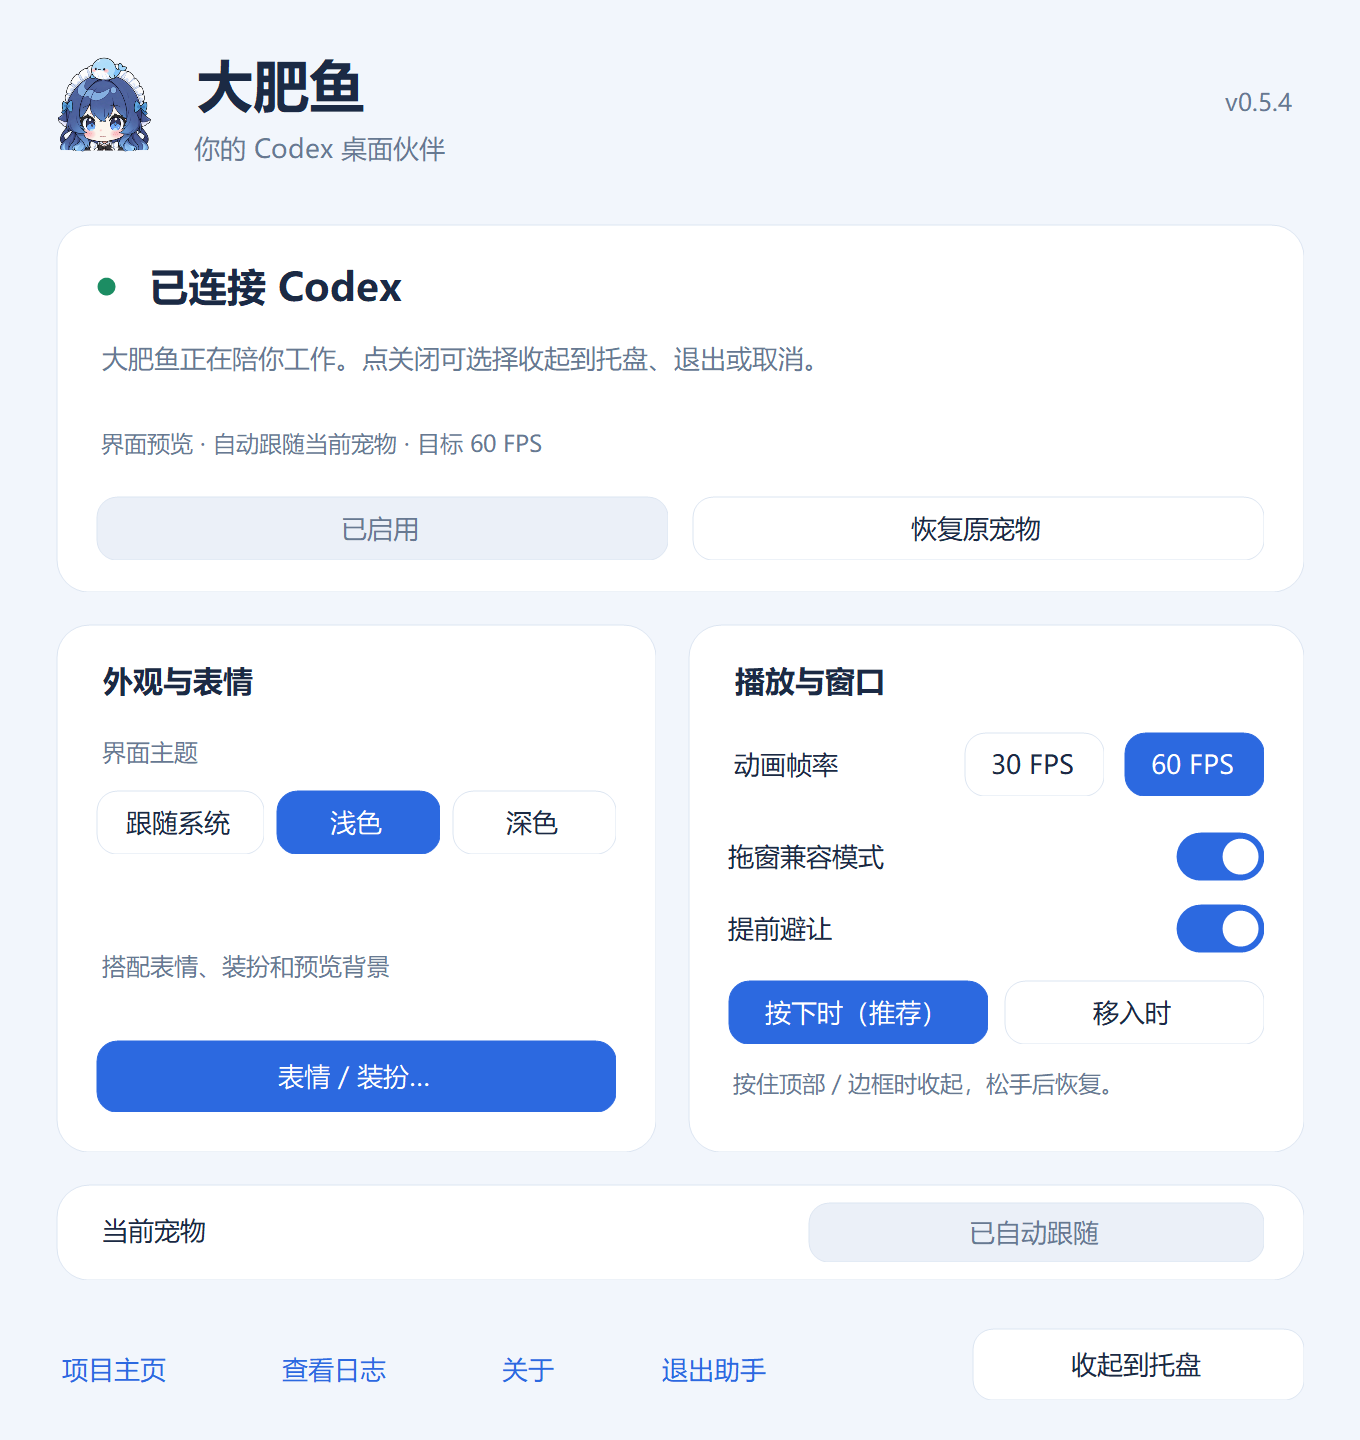
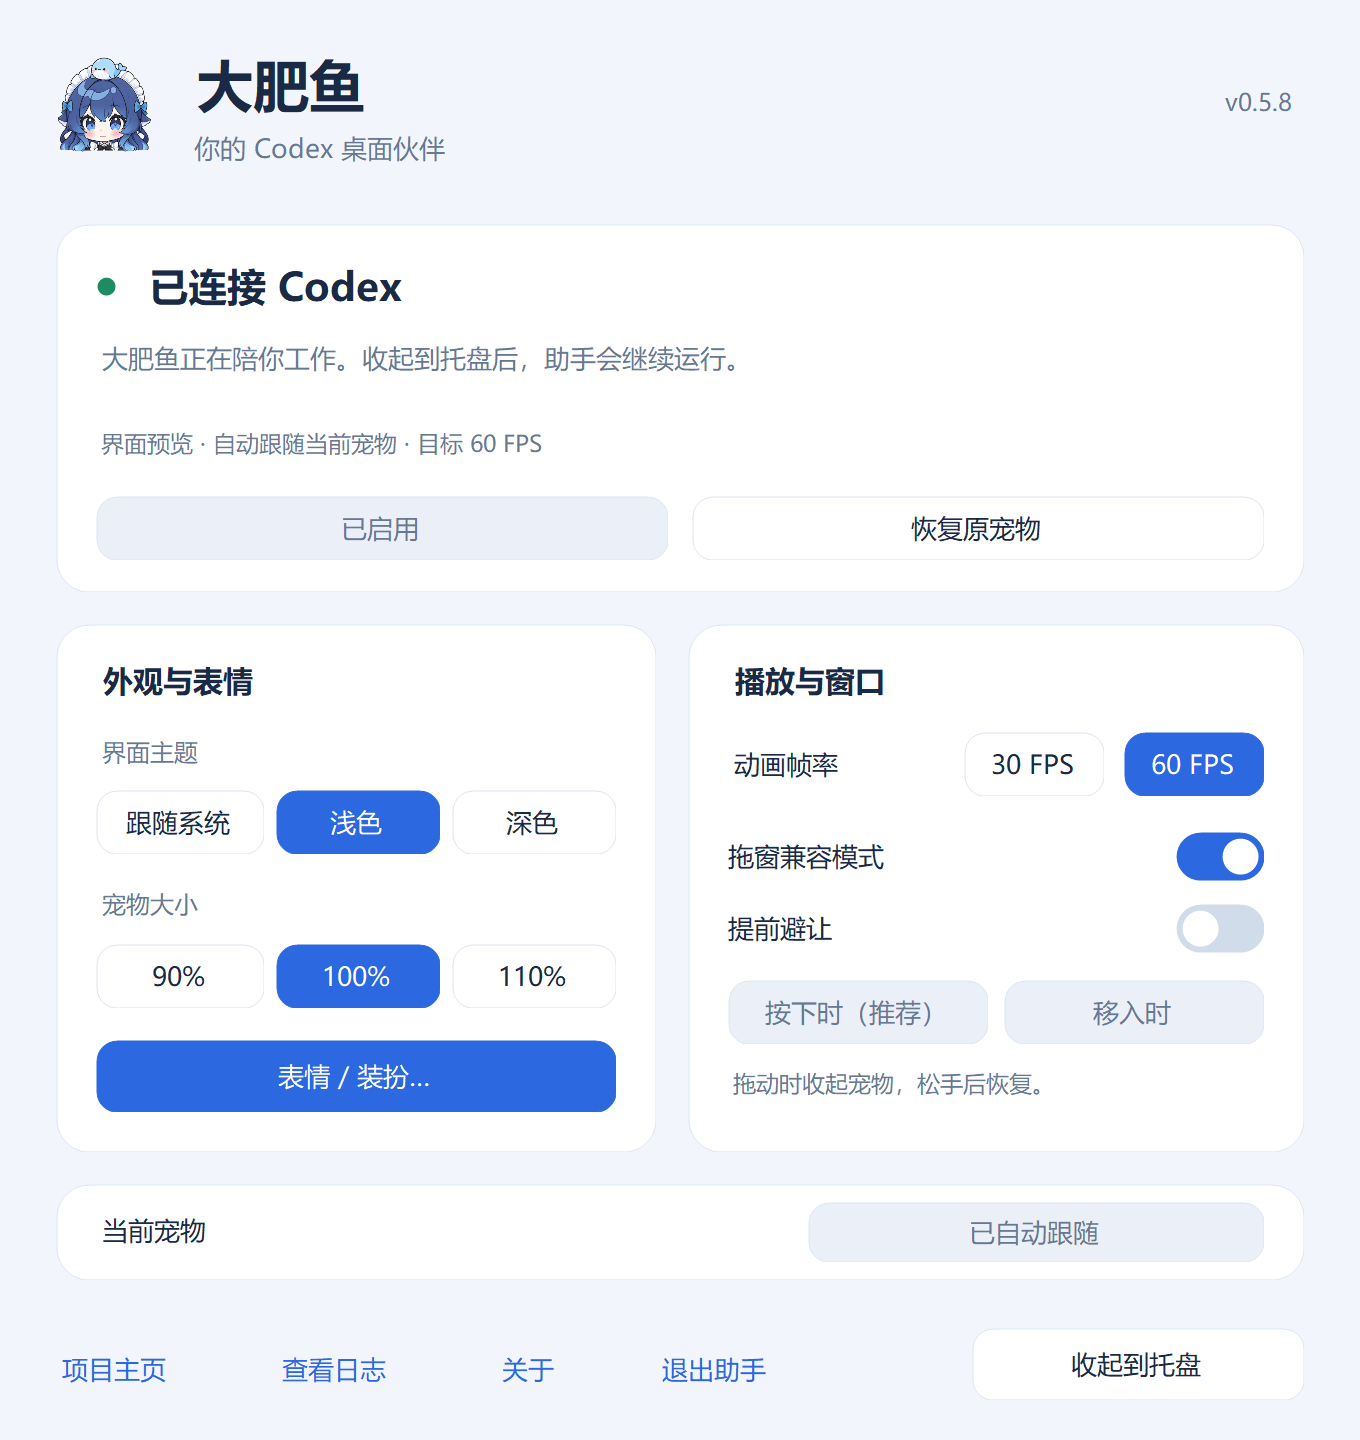
Add pet size presets and tie the excited face to selfies

diff --git a/native/Launcher.cs b/native/Launcher.cs
@@ -126,7 +126,7 @@ internal static class Program {
             if(state=="watching")dashboard.UpdateState("等待你打开 Codex","助手继续监测。点“打开 Codex”或再次运行大肥鱼入口，即可一起打开并接入。","自动监测 · 目标 60 FPS",state,false,60,true);
             if(state=="handoff-wait")dashboard.UpdateState("等待你完整退出 Codex","已安排自动接入。请从系统托盘右键 Codex → 退出，助手会随后重开。只关窗口不算退出。","等待接续 · 目标 60 FPS",state,false,60,true);
             if(state=="relaunch-needed")dashboard.UpdateState("需要重开 Codex 才能接入","这次 Codex 未开启宠物接入通道。点“安排接入”，再从托盘完整退出一次，助手会接续打开。","自动监测 · 目标 60 FPS",state,false,60,true);
-            int previewTheme=Array.IndexOf(args,"--theme");dashboard.UpdateOptions(previewTheme>=0&&previewTheme+1<args.Length?args[previewTheme+1]:Text(ReadPreferences(),"theme","system"),true,args.Contains("--early-avoidance"),"press",false);
+            int previewTheme=Array.IndexOf(args,"--theme");dashboard.UpdateOptions(previewTheme>=0&&previewTheme+1<args.Length?args[previewTheme+1]:Text(ReadPreferences(),"theme","system"),true,args.Contains("--early-avoidance"),"press",100,false);
             form=dashboard;
         }
         using(form) {
@@ -222,7 +222,7 @@ internal sealed class PetContext : ApplicationContext {
     private Icon trayIcon;
     private int trayPixels;
     private bool busy,closing,exitRequested,enabled,userPaused;
-    private int fps=60;
+    private int fps=60,petSize=100;
     private bool automatic=true;
     private bool appearanceOpen;
     private string restoreNotice="";
@@ -236,6 +236,9 @@ internal sealed class PetContext : ApplicationContext {
         MainForm=panel;ReadSettings();panel.CloseBehavior=Program.ReadCloseBehavior();
         panel.EnableRequested=StartPet;panel.RestoreRequested=RestorePet;panel.FollowRequested=delegate { Reconfigure("--pet-id auto"); };
         panel.FpsRequested=delegate(int requested) { if(requested!=fps)Reconfigure("--fps "+requested); };
+        panel.PetSizeRequested=delegate(int requested) {
+            if(requested!=petSize)Work(delegate{Program.Run("launch.mjs","set-pet-size "+requested);},ReadSettings);
+        };
         panel.HideRequested=delegate { panel.Hide(); };panel.ExitRequested=Shutdown;panel.LogsRequested=Program.OpenLogs;
         panel.CloseActionRequested=delegate(string action,bool remember) {
             if(remember&&!SetCloseBehavior(action))return;
@@ -269,7 +272,7 @@ internal sealed class PetContext : ApplicationContext {
         var previous=trayIcon;trayIcon=Program.LoadIconSize(pixels);tray.Icon=trayIcon;trayPixels=pixels;if(previous!=null)previous.Dispose();
     }
     private void ReadSettings() {
-        try { var settings=Program.ReadJson(Path.Combine(Program.Data,"settings.json"));fps=Convert.ToInt32(settings["fps"]);automatic=!settings.ContainsKey("petId")||settings["petId"]==null; } catch {}
+        try { var settings=Program.ReadJson(Path.Combine(Program.Data,"settings.json"));fps=Convert.ToInt32(settings["fps"]);automatic=!settings.ContainsKey("petId")||settings["petId"]==null;int size;petSize=Int32.TryParse(Program.Text(settings,"petSize","100"),out size)&&(size==90||size==110)?size:100; } catch {}
         var preferences=Program.ReadPreferences();theme=Program.Text(preferences,"theme","system");dragCompatibility=!Program.Text(preferences,"dragCompatibility","True").Equals("False",StringComparison.OrdinalIgnoreCase);earlyAvoidance=Program.Text(preferences,"earlyAvoidance","False").Equals("True",StringComparison.OrdinalIgnoreCase);avoidanceTrigger=Program.Text(preferences,"avoidanceTrigger","press");Program.ApplyTheme(theme);
     }
     private void SavePreference(string key,object value) {if(busy||closing)return;string encoded=Convert.ToBase64String(Encoding.UTF8.GetBytes(new JavaScriptSerializer().Serialize(new Dictionary<string,object>{{key,value}})));Work(delegate{Program.Run("preferences.mjs","set "+encoded);},delegate{ReadSettings();Render();});}
@@ -287,7 +290,7 @@ internal sealed class PetContext : ApplicationContext {
         if(panel.IsDisposed)return;
         string metadata=(String.IsNullOrEmpty(version)?"本机连接":"Codex "+version)+" · "+(automatic?"自动跟随当前宠物":"固定宠物")+" · 目标 "+fps+" FPS";
         panel.UpdateState(heading,detail,metadata,displayState,busy,fps,automatic);
-        panel.UpdateOptions(theme,dragCompatibility,earlyAvoidance,avoidanceTrigger,busy);
+        panel.UpdateOptions(theme,dragCompatibility,earlyAvoidance,avoidanceTrigger,petSize,busy);
         trayMenu.UpdateState(heading,displayState,busy,fps,automatic);
         trayMenu.UpdateCloseBehavior(panel.CloseBehavior);
         string tooltip="大肥鱼 · "+heading;tray.Text=tooltip.Length>63?tooltip.Substring(0,63):tooltip;

diff --git a/native/Dashboard.cs b/native/Dashboard.cs
@@ -177,13 +177,14 @@ internal sealed class Dashboard : AppForm {
     internal Action EnableRequested,RestoreRequested,FollowRequested,HideRequested,ExitRequested,LogsRequested,AboutRequested,AppearanceRequested;
     internal Action<string,bool> CloseActionRequested;
     internal string CloseBehavior="ask";
-    internal Action<int> FpsRequested;
+    internal Action<int> FpsRequested,PetSizeRequested;
     internal Action<string> ThemeRequested;
     internal Action<string> AvoidanceTriggerRequested;
     internal Action<bool> DragCompatibilityRequested,EarlyAvoidanceRequested;
     private readonly Label title,description,metadata,dragHint;
     private readonly StatusDot dot;
     private readonly SoftButton enable,restore,fps30,fps60,follow,appearance,themeSystem,themeLight,themeDark;
+    private readonly SoftButton[] sizes=new SoftButton[3];
     private readonly CheckBox dragCompatibility,earlyAvoidance;
     private readonly SoftButton avoidPress,avoidHover;
     private readonly PictureBox logo;
@@ -210,7 +211,14 @@ internal sealed class Dashboard : AppForm {
         themeSystem=new SoftButton("跟随系统",20,83,84,32);themeSystem.Name="ThemeSystem";themeSystem.Click+=delegate {if(ThemeRequested!=null)ThemeRequested("system");};looks.Controls.Add(themeSystem);
         themeLight=new SoftButton("浅色",110,83,82,32);themeLight.Name="ThemeLight";themeLight.Click+=delegate {if(ThemeRequested!=null)ThemeRequested("light");};looks.Controls.Add(themeLight);
         themeDark=new SoftButton("深色",198,83,82,32);themeDark.Name="ThemeDark";themeDark.Click+=delegate {if(ThemeRequested!=null)ThemeRequested("dark");};looks.Controls.Add(themeDark);
-        var dressLabel=Palette.Label(looks,"搭配表情、装扮和预览背景",20,163,260,24,9);dressLabel.ForeColor=Palette.Muted;
+        Palette.Label(looks,"宠物大小",20,132,260,24,9).ForeColor=Palette.Muted;
+        for(int i=0;i<sizes.Length;i++) {
+            int percent=90+i*10;
+            var button=new SoftButton(percent+"%",i==0?20:i==1?110:198,160,i==0?84:82,32);button.Name="PetSize"+percent;
+            button.AccessibleName="宠物大小 "+percent+"%";
+            button.Click+=delegate {if(!button.Primary&&PetSizeRequested!=null)PetSizeRequested(percent);};
+            looks.Controls.Add(button);sizes[i]=button;
+        }
         appearance=new SoftButton("表情 / 装扮…",20,208,260,36,true);appearance.Name="OpenAppearance";appearance.Click+=delegate {if(AppearanceRequested!=null)AppearanceRequested();};looks.Controls.Add(appearance);
         var settings=new CardPanel {Bounds=new Rectangle(344,312,308,264)};Controls.Add(settings);
         Palette.Label(settings,"播放与窗口",20,18,268,28,11,true);Palette.Label(settings,"动画帧率",20,61,108,24,9.5f);
@@ -249,11 +257,15 @@ internal sealed class Dashboard : AppForm {
         FinishLayout();
     }
 
-    internal void UpdateOptions(string theme,bool compatibility,bool early,string trigger,bool busy) {
+    internal void UpdateOptions(string theme,bool compatibility,bool early,string trigger,int petSize,bool busy) {
         updatingPreferences=true;
         try {
             themeSystem.Primary=theme=="system";themeLight.Primary=theme=="light";themeDark.Primary=theme=="dark";
             themeSystem.Enabled=themeLight.Enabled=themeDark.Enabled=!busy;
+            for(int i=0;i<sizes.Length;i++){
+                var button=sizes[i];button.Primary=petSize==90+i*10;button.Enabled=!busy;
+                button.AccessibleDescription=button.Primary?"已选择":"未选择";
+            }
             dragCompatibility.Checked=compatibility;dragCompatibility.Enabled=!busy;
             earlyAvoidance.Checked=early;earlyAvoidance.Enabled=compatibility&&!busy;
             avoidPress.Primary=trigger!="hover";avoidHover.Primary=trigger=="hover";

diff --git a/native/AppearanceDialog.cs b/native/AppearanceDialog.cs
@@ -33,7 +33,7 @@ internal sealed class AppearanceDialog : AppForm {
         automatic=new CheckBox { Text="自动播放轻松的小表情（跟随状态时生效）",Bounds=new Rectangle(26,162,550,30),Font=Palette.Font(10),BackColor=Palette.Background,Name="AutoExpressions" };Controls.Add(automatic);
         expression.SelectedIndexChanged+=delegate { automatic.Enabled=!working&&((Choice)expression.SelectedItem).Id=="auto"; };
         Palette.Label(this,"轮换范围",24,201,190,25,10,true);
-        scope=CreateChoices(new[]{new Dictionary<string,object>{{"id","all"},{"label","全部 20 种"}},new Dictionary<string,object>{{"id","daily"},{"label","日常 12 种"}}},"ExpressionScope",238,196,338);
+        scope=CreateChoices(new[]{new Dictionary<string,object>{{"id","all"},{"label","全部可轮换表情"}},new Dictionary<string,object>{{"id","daily"},{"label","轻松日常"}}},"ExpressionScope",238,196,338);
         int index=0;
         foreach(Dictionary<string,object> group in (IEnumerable)catalog["groups"]) {
             int x=index%2==0?24:312,y=254+index/2*68;string id=Program.Text(group,"id");

diff --git a/native/AssemblyInfo.cs b/native/AssemblyInfo.cs
@@ -5,8 +5,8 @@ using System.Runtime.InteropServices;
 [assembly: AssemblyCompany("Chris-Geeky")]
 [assembly: AssemblyProduct("大肥鱼 · Codex 宠物助手")]
 [assembly: AssemblyCopyright("Copyright © 2026 Chris-Geeky")]
-[assembly: AssemblyVersion("0.5.7.0")]
-[assembly: AssemblyFileVersion("0.5.7.0")]
-[assembly: AssemblyInformationalVersion("0.5.7")]
+[assembly: AssemblyVersion("0.5.8.0")]
+[assembly: AssemblyFileVersion("0.5.8.0")]
+[assembly: AssemblyInformationalVersion("0.5.8")]
 [assembly: System.Runtime.Versioning.TargetFramework(".NETFramework,Version=v4.8",FrameworkDisplayName=".NET Framework 4.8")]
 [assembly: ComVisible(false)]

diff --git a/RELEASE_NOTES.md b/RELEASE_NOTES.md
@@ -1,7 +1,7 @@
-Windows x64 便携预览版：摸头时小幅移动仍保持闭眼。
+Windows x64 便携预览版：可以调整宠物大小，摸头结束时表情过渡更自然。
 
-- 鼠标停在可见头部才会触发摸头；触发后给头部轮廓留 6 个界面像素的余量。
-- 移出余量后仍按原有延时恢复表情；拖动、点击和透明区的鼠标响应范围保持不变。
-- 完整解压 codex-dafeiyu-live2d-v0.5.7-win-x64.zip，双击 CodexDafeiyu.exe。已有主题、装扮、帧率和关闭偏好继续使用。
+- “外观与表情”可选 90%、100% 或 110%。切换后模型和鼠标响应范围一起缩放，底部保持原位，大小会保存。
+- “开心兴奋”跟随自拍出现，不再参与随机换脸，也可手动选择。自动模式下摸头松开先回到平静脸，约两秒后恢复轮换。
+- 完整解压 codex-dafeiyu-live2d-v0.5.8-win-x64.zip，双击 CodexDafeiyu.exe。已有主题、装扮、帧率和关闭偏好继续使用。
 
 此版本仍为非官方、未签名的 Windows x64 便携预览版。
